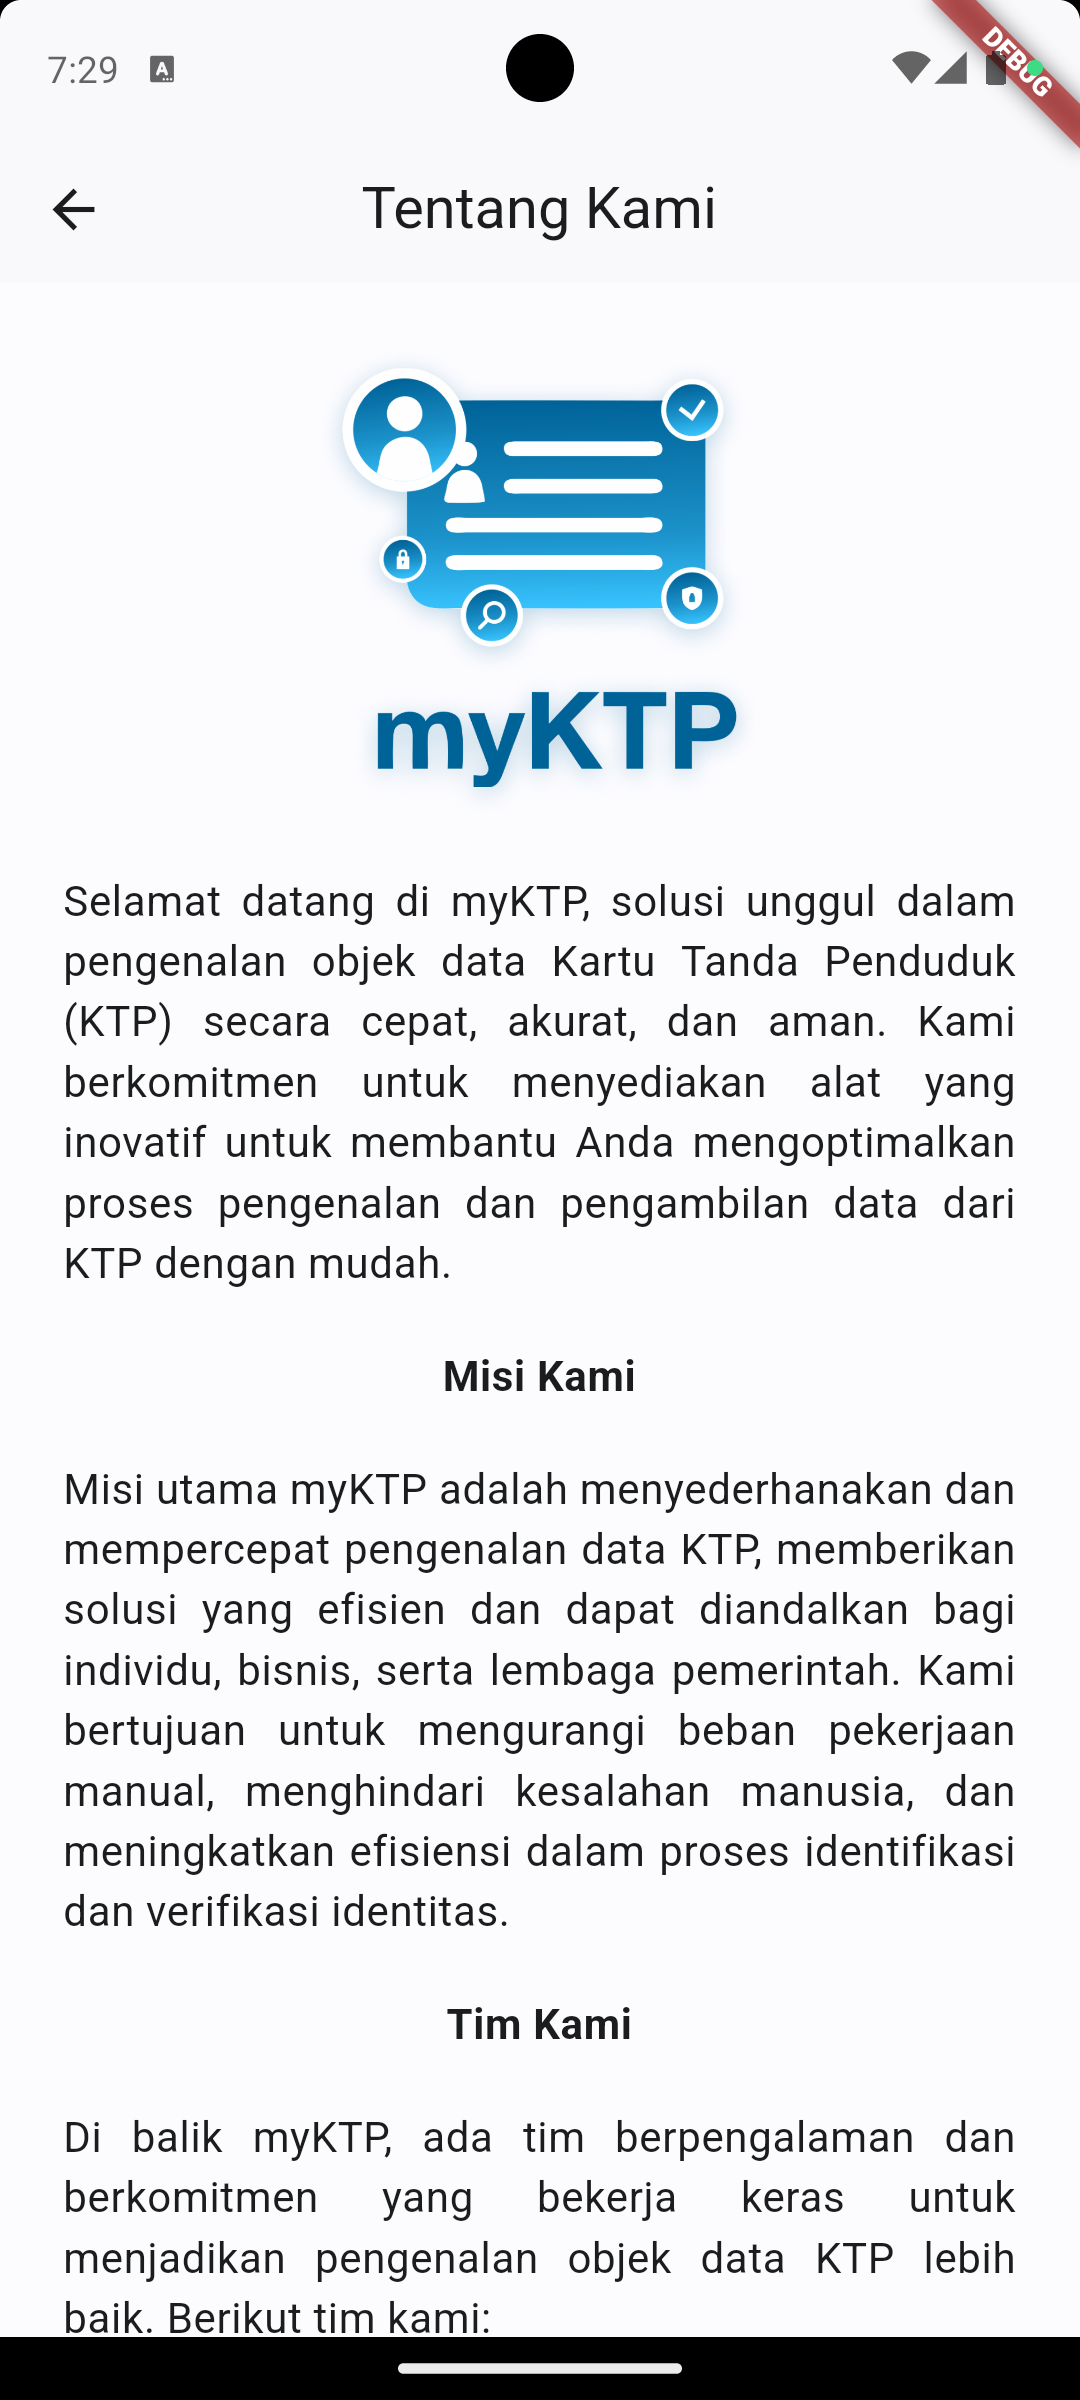
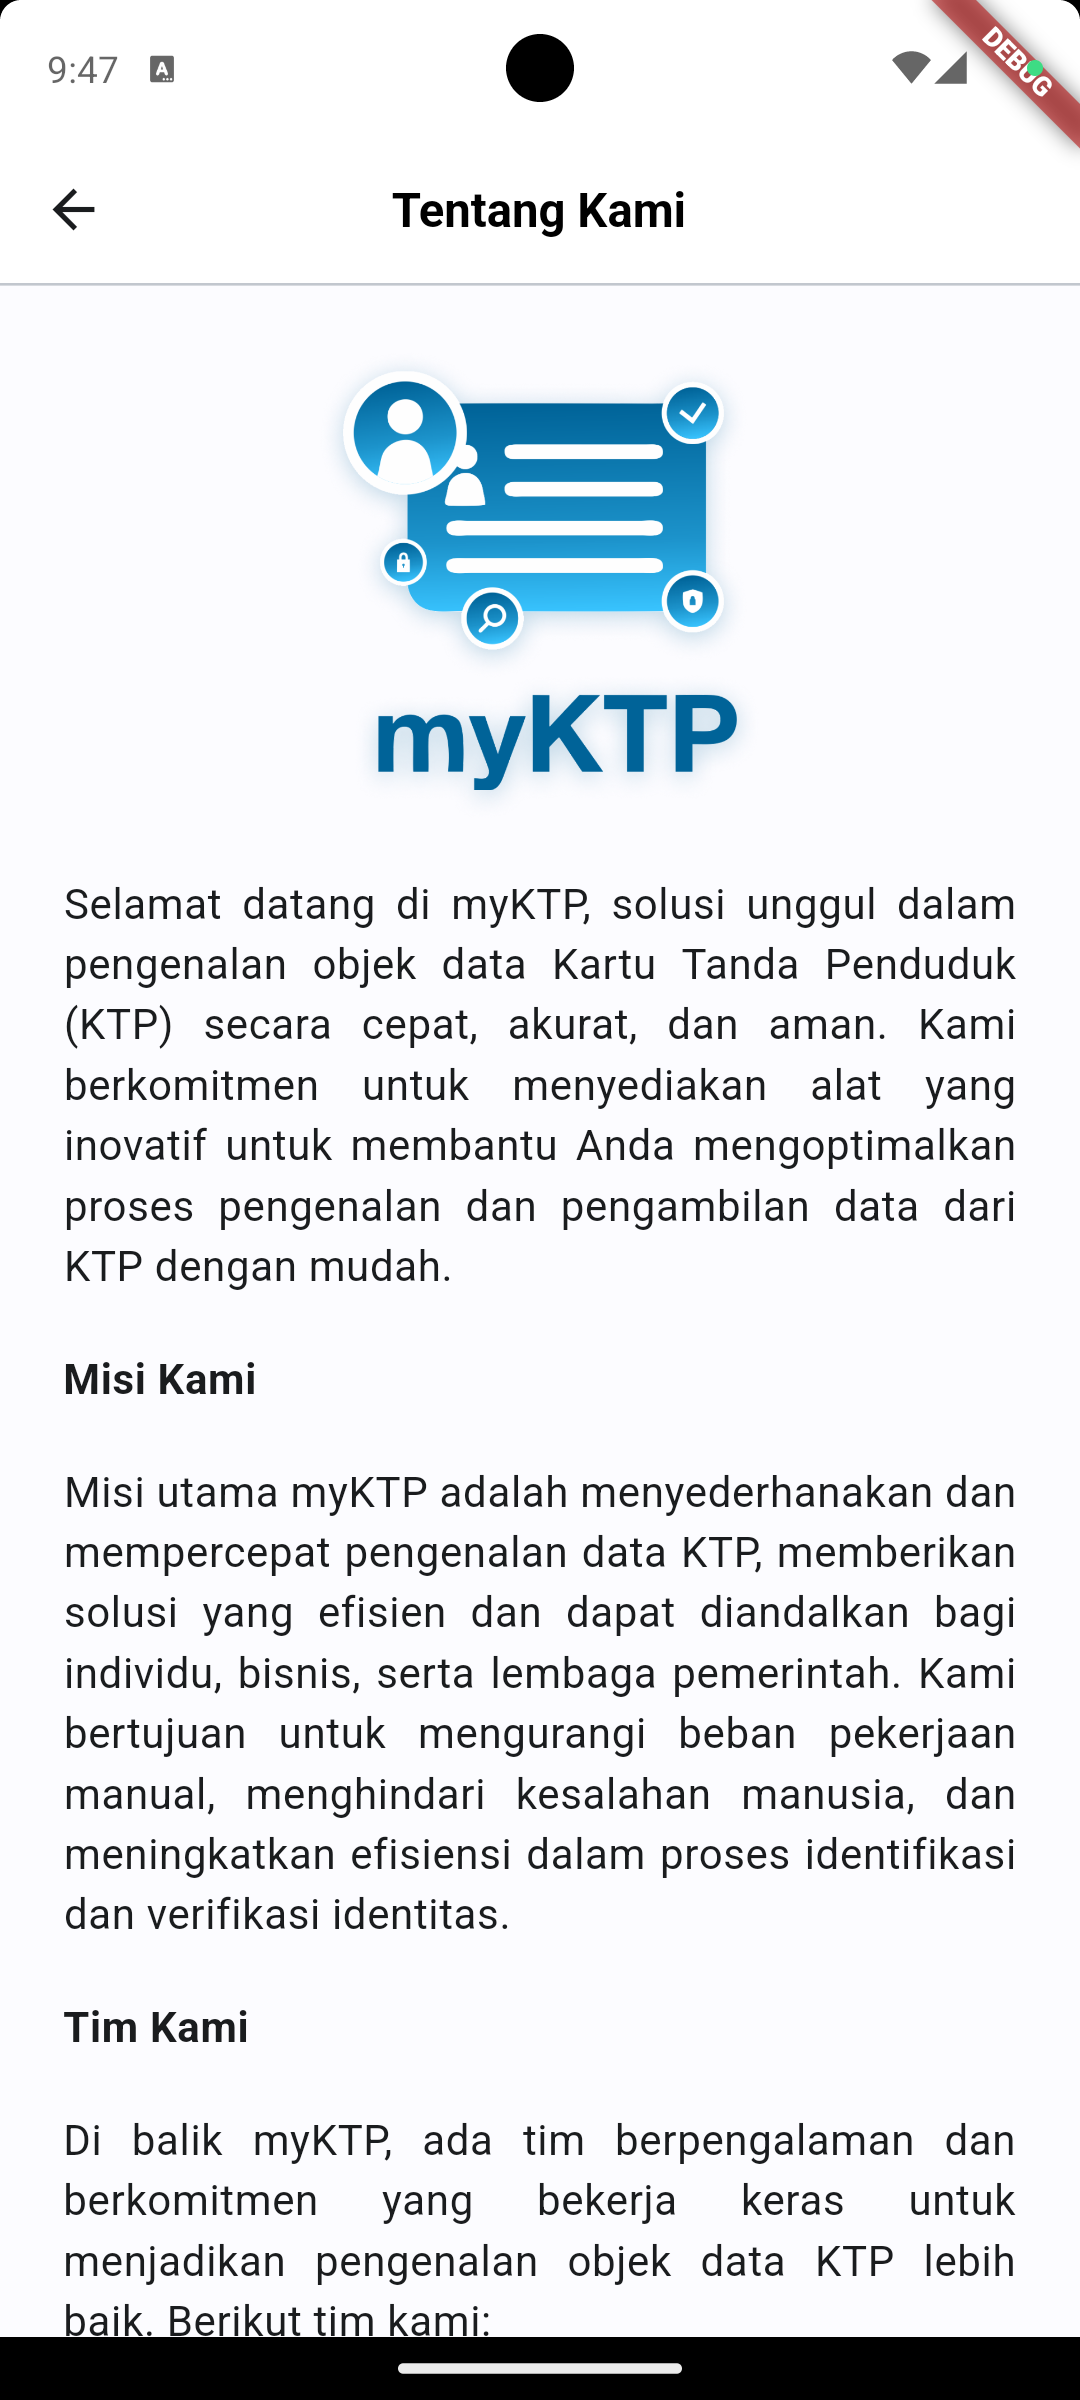
docs: update screenshot

diff --git a/src/lib/ui/pages/about_page.dart b/src/lib/ui/pages/about_page.dart
@@ -7,97 +7,105 @@ class AboutPage extends StatelessWidget {
   Widget build(BuildContext context) {
     return Scaffold(
       appBar: AppBar(
-          scrolledUnderElevation: 0,
-          leading: IconButton(
-            icon: const Icon(Icons.arrow_back),
-            onPressed: () {
-              Navigator.pop(context);
-            },
+        backgroundColor: const Color.fromARGB(255, 255, 255, 255),
+        centerTitle: true,
+        scrolledUnderElevation: 0,
+        title: const Text(
+          'Tentang Kami',
+          style: TextStyle(
+            color: Colors.black,
+            fontSize: 18,
+            fontWeight: FontWeight.w700,
           ),
-          centerTitle: true,
-          title: const Text('Tentang Kami',
-              style: TextStyle(
-                color: Colors.black,
-                fontSize: 18,
-                fontWeight: FontWeight.bold,
-              ))),
-      body: SingleChildScrollView(
-        padding: const EdgeInsets.all(24.0),
-        child: Column(
-          crossAxisAlignment: CrossAxisAlignment.center,
-          children: [
-            Image.asset(
-              'assets/images/logo.png',
-              width: 180,
-              height: 180,
-            ),
-            const SizedBox(height: 20),
-            const Text(
-                'Selamat datang di myKTP, solusi unggul dalam pengenalan objek data Kartu Tanda Penduduk (KTP) secara cepat, akurat, dan aman. Kami berkomitmen untuk menyediakan alat yang inovatif untuk membantu Anda mengoptimalkan proses pengenalan dan pengambilan data dari KTP dengan mudah.',
-                style: TextStyle(fontSize: 16),
-                textAlign: TextAlign.justify),
-            const SizedBox(height: 20),
-            const Row(
-              children: [
-                Text('Misi Kami',
-                    style: TextStyle(fontSize: 16, fontWeight: FontWeight.bold),
-                    textAlign: TextAlign.left),
-              ],
-            ),
-            const SizedBox(height: 20),
-            const Text(
-                'Misi utama myKTP adalah menyederhanakan dan mempercepat pengenalan data KTP, memberikan solusi yang efisien dan dapat diandalkan bagi individu, bisnis, serta lembaga pemerintah. Kami bertujuan untuk mengurangi beban pekerjaan manual, menghindari kesalahan manusia, dan meningkatkan efisiensi dalam proses identifikasi dan verifikasi identitas.',
-                style: TextStyle(fontSize: 16),
-                textAlign: TextAlign.justify),
-            const SizedBox(height: 20),
-            const Row(
-              children: [
-                Text('Tim Kami',
-                    style: TextStyle(fontSize: 16, fontWeight: FontWeight.bold),
-                    textAlign: TextAlign.left),
-              ],
-            ),
-            const SizedBox(height: 20),
-            const Align(
-              alignment: Alignment.centerLeft,
-              child: Text(
-                'Di balik myKTP, ada tim berpengalaman dan berkomitmen yang bekerja keras untuk menjadikan pengenalan objek data KTP lebih baik. Berikut tim kami:',
-                style: TextStyle(fontSize: 16),
-                textAlign: TextAlign.justify,
+        ),
+      ),
+      body: Column(
+        children: [
+          const SizedBox(height: 1),
+          const Divider(height: 0),
+          Expanded(
+            child: SingleChildScrollView(
+              padding: const EdgeInsets.all(24.0),
+              child: Column(
+                crossAxisAlignment: CrossAxisAlignment.center,
+                children: [
+                  Image.asset(
+                    'assets/images/logo.png',
+                    width: 180,
+                    height: 180,
+                  ),
+                  const SizedBox(height: 20),
+                  const Text(
+                      'Selamat datang di myKTP, solusi unggul dalam pengenalan objek data Kartu Tanda Penduduk (KTP) secara cepat, akurat, dan aman. Kami berkomitmen untuk menyediakan alat yang inovatif untuk membantu Anda mengoptimalkan proses pengenalan dan pengambilan data dari KTP dengan mudah.',
+                      style: TextStyle(fontSize: 16),
+                      textAlign: TextAlign.justify),
+                  const SizedBox(height: 20),
+                  const Row(
+                    children: [
+                      Text('Misi Kami',
+                          style: TextStyle(
+                              fontSize: 16, fontWeight: FontWeight.bold),
+                          textAlign: TextAlign.left),
+                    ],
+                  ),
+                  const SizedBox(height: 20),
+                  const Text(
+                      'Misi utama myKTP adalah menyederhanakan dan mempercepat pengenalan data KTP, memberikan solusi yang efisien dan dapat diandalkan bagi individu, bisnis, serta lembaga pemerintah. Kami bertujuan untuk mengurangi beban pekerjaan manual, menghindari kesalahan manusia, dan meningkatkan efisiensi dalam proses identifikasi dan verifikasi identitas.',
+                      style: TextStyle(fontSize: 16),
+                      textAlign: TextAlign.justify),
+                  const SizedBox(height: 20),
+                  const Row(
+                    children: [
+                      Text('Tim Kami',
+                          style: TextStyle(
+                              fontSize: 16, fontWeight: FontWeight.bold),
+                          textAlign: TextAlign.left),
+                    ],
+                  ),
+                  const SizedBox(height: 20),
+                  const Align(
+                    alignment: Alignment.centerLeft,
+                    child: Text(
+                      'Di balik myKTP, ada tim berpengalaman dan berkomitmen yang bekerja keras untuk menjadikan pengenalan objek data KTP lebih baik. Berikut tim kami:',
+                      style: TextStyle(fontSize: 16),
+                      textAlign: TextAlign.justify,
+                    ),
+                  ),
+                  const SizedBox(height: 20),
+                  const Row(
+                    children: [
+                      Column(
+                        crossAxisAlignment: CrossAxisAlignment.start,
+                        children: [
+                          Text('1. Adam Rafi Rezandi',
+                              style: TextStyle(
+                                  fontSize: 16, fontWeight: FontWeight.normal),
+                              textAlign: TextAlign.left),
+                          Text('2. Andi Dwi Prastyo',
+                              style: TextStyle(
+                                  fontSize: 16, fontWeight: FontWeight.normal),
+                              textAlign: TextAlign.left),
+                          Text('3. Bima Bayu Saputra',
+                              style: TextStyle(
+                                  fontSize: 16, fontWeight: FontWeight.normal),
+                              textAlign: TextAlign.left),
+                          Text('4. Lailatul Badriyah',
+                              style: TextStyle(
+                                  fontSize: 16, fontWeight: FontWeight.normal),
+                              textAlign: TextAlign.left),
+                          Text('5. Tio Misbaqul Irawan',
+                              style: TextStyle(
+                                  fontSize: 16, fontWeight: FontWeight.normal),
+                              textAlign: TextAlign.left),
+                        ],
+                      ),
+                    ],
+                  )
+                ],
               ),
             ),
-            const SizedBox(height: 20),
-            const Row(
-              children: [
-                Column(
-                  crossAxisAlignment: CrossAxisAlignment.start,
-                  children: [
-                    Text('1. Adam Rafi Rezandi',
-                        style: TextStyle(
-                            fontSize: 16, fontWeight: FontWeight.normal),
-                        textAlign: TextAlign.left),
-                    Text('2. Andi Dwi Prastyo',
-                        style: TextStyle(
-                            fontSize: 16, fontWeight: FontWeight.normal),
-                        textAlign: TextAlign.left),
-                    Text('3. Bima Bayu Saputra',
-                        style: TextStyle(
-                            fontSize: 16, fontWeight: FontWeight.normal),
-                        textAlign: TextAlign.left),
-                    Text('4. Lailatul Badriyah',
-                        style: TextStyle(
-                            fontSize: 16, fontWeight: FontWeight.normal),
-                        textAlign: TextAlign.left),
-                    Text('5. Tio Misbaqul Irawan',
-                        style: TextStyle(
-                            fontSize: 16, fontWeight: FontWeight.normal),
-                        textAlign: TextAlign.left),
-                  ],
-                ),
-              ],
-            )
-          ],
-        ),
+          ),
+        ],
       ),
     );
   }
